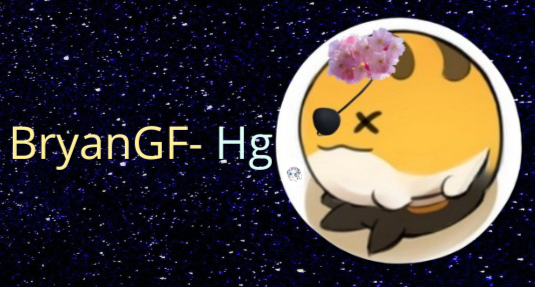
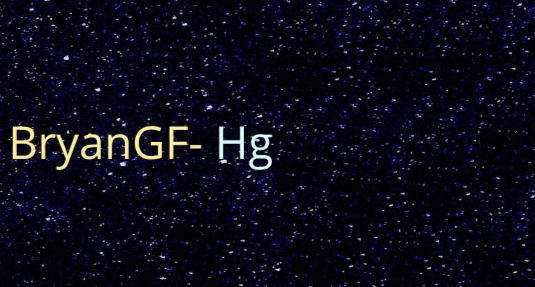
yes

diff --git a/index.html b/index.html
@@ -82,17 +82,14 @@
       <h4>Portafolio</h4>
    
       <ul><a href="https://bryangf-hg.github.io/portafolio/">Portafolio</a></ul>
-      	  <img src="pfp-amarillo-radioactivo.png" alt="favicon-capa1">
      </article>
      <article>
       <h4>Curriculum</h4>
       <ul><a href="https://bryangf-hg.github.io/curriculum/">Curriculum</a></ul>
-      	  <img src="pfp-immerverde.png" alt="favicon-capa1">
      </article>
      <article>
       <h4>Sitio Web</h4>
       <ul><a href="https://bryangf-hg.github.io/web/">!</a></ul>
-      	  <img src="pfp-naranja.png" alt="favicon-capa1">
      </article>          
 	   </div>
     <div id="centro-capa_madre">
